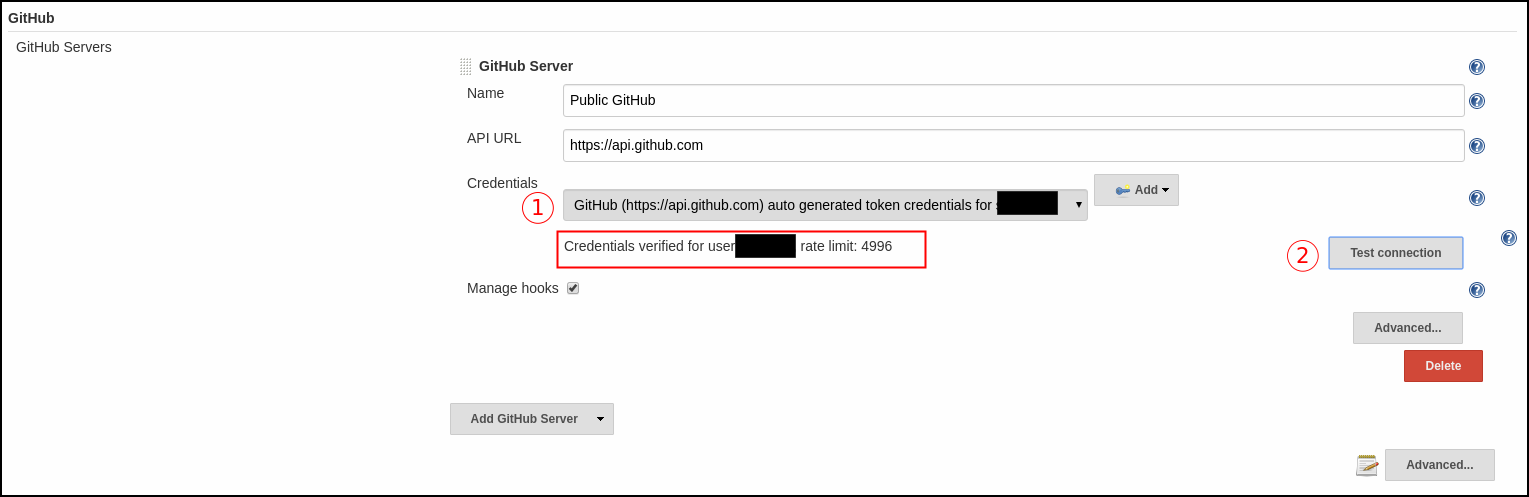
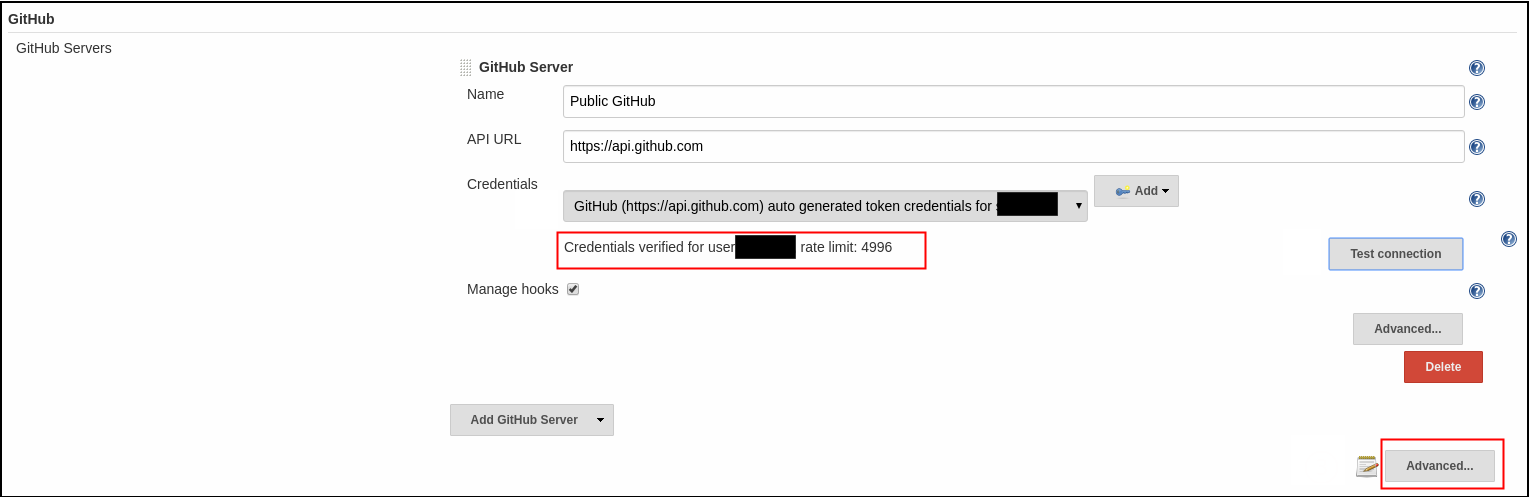
Next stage.

diff --git a/WEBHOOKS.md b/WEBHOOKS.md
@@ -51,9 +51,22 @@ Click the "Save button", then scroll up to:
 
 ![GitHub set credential and test](https://github.com/stericbro/estafet-microservices-scrum/blob/master/md_images/webhooks/jenkins_github_set_credential_and_test.png)
 
-Select the creedential you just created from the "`Credentials`" dropdown list and then choose "`Test connection`":
+Select the credential you just created from the "`Credentials`" dropdown list and then choose "`Test connection`":
 
 ![GitHub credential test result](https://github.com/stericbro/estafet-microservices-scrum/blob/master/md_images/webhooks/jenkins_github_credential_test_result.png)
+
+Click on `Advanced`:
+
+![GitHub Advanced Settings](https://github.com/stericbro/estafet-microservices-scrum/blob/master/md_images/webhooks/jenkins_github_advanced_settings_2.png)
+
+Check `Specify another hook URL for GitHib configuration`:
+
+![GitHub Override Hook URL](https://github.com/stericbro/estafet-microservices-scrum/blob/master/md_images/webhooks/jenkins_github_override_hook_url.png)
+
+Ignore the error message `Failed to test a connection to ...`.  Copy the highlighted  Webhook URL and save it.
+
+1. Uncheck `Specify another hook URL for GitHib configuration`
+1. Click on `Save`.
 
 ## <a name="configuring-github"></a>Configuring GitHub
 
@@ -61,6 +74,17 @@ Point a browser at the GitHub for the repository, in this case `estafet-microser
 
 ![GitHub repository page](https://github.com/stericbro/estafet-microservices-scrum/blob/master/md_images/webhooks/github_repo_page.png)
 
+Choose Settings:
+
+![GitHub repository settings page](https://github.com/stericbro/estafet-microservices-scrum/blob/master/md_images/webhooks/github_repo_settings_page.png)
+
+Choose `WebHooks`: 
+
+![GitHub repository settings page](https://github.com/stericbro/estafet-microservices-scrum/blob/master/md_images/webhooks/github_repo_webhooks_page.png)
+
+Choose 'Add webhook':
+
+![GitHub repository settings page](https://github.com/stericbro/estafet-microservices-scrum/blob/master/md_images/webhooks/github_repo_add_webhook_page.png)
 
  
 
